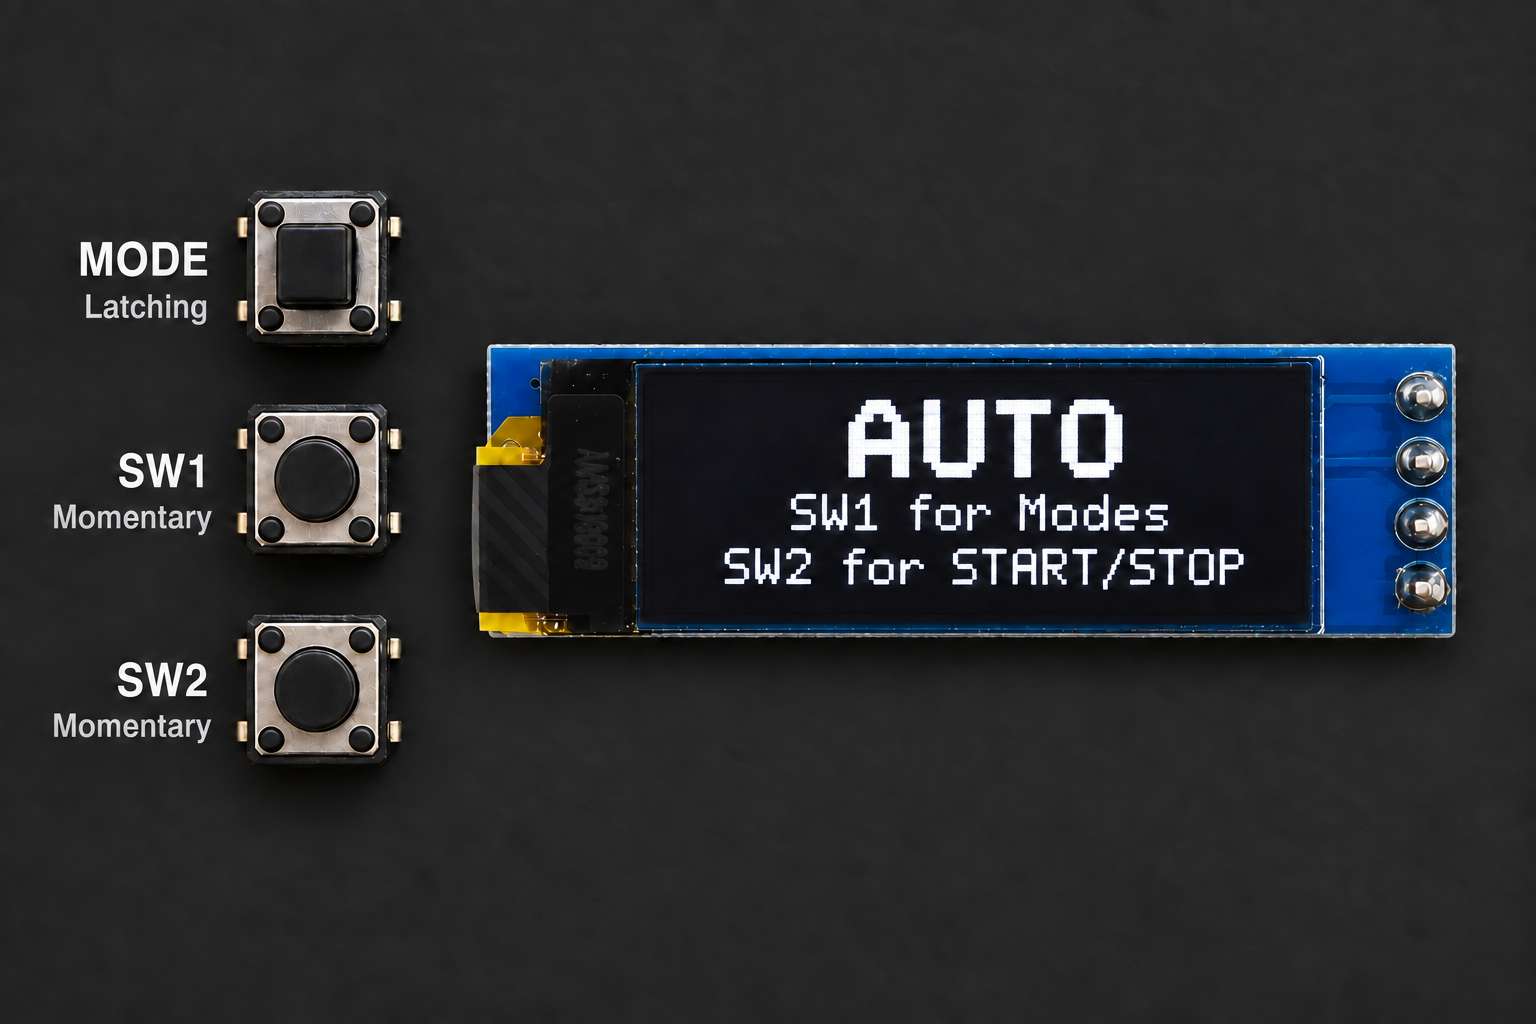
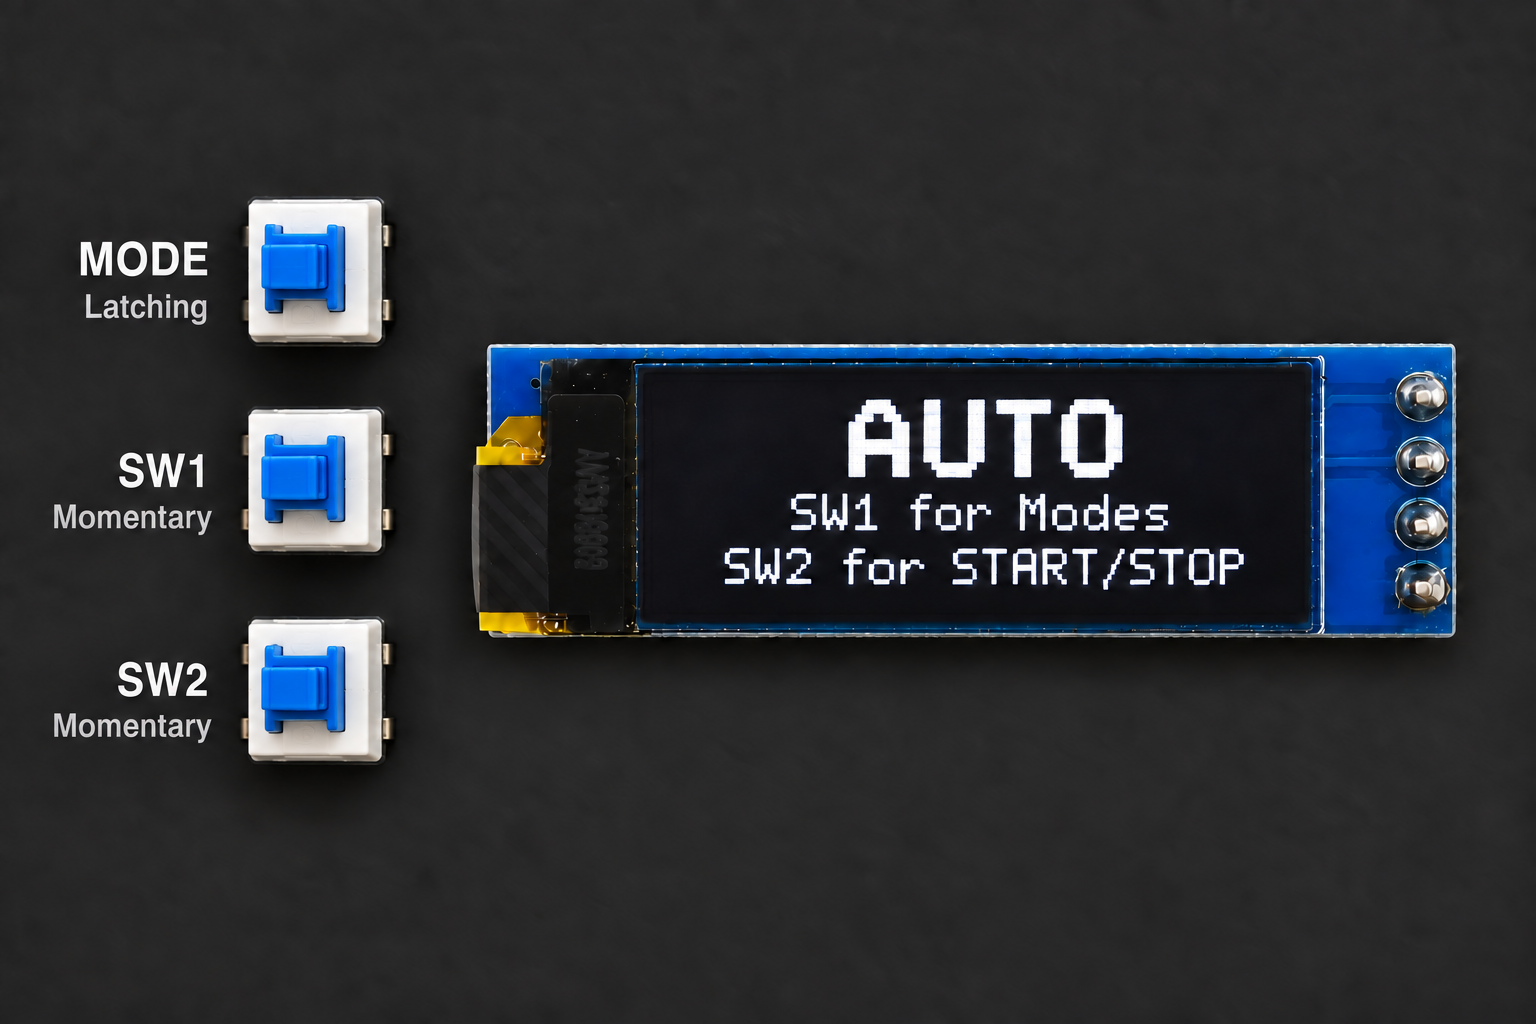
Correct Mini Hunter switch visual

diff --git a/docs/mini-hunter/modes/introduction.md b/docs/mini-hunter/modes/introduction.md
@@ -11,8 +11,8 @@ A **control mode** decides where movement commands come from. An **autonomous mo
 ## Know the three menu controls
 
 <figure class="guide-figure">
-  <img src="../../assets/images/mini-hunter/modes/mh-modes-01-controls-and-auto-menu.png" alt="Illustrated Mini Hunter controls with a latching MODE switch, momentary SW1 and SW2 switches, and an AUTO OLED menu" loading="lazy">
-  <figcaption><strong>MH-MODES-01.</strong> Menu-control reference based on the supplied firmware and OLED hardware. The OLED is installed with its soldered pins on the right.</figcaption>
+  <img src="../../assets/images/mini-hunter/modes/mh-modes-01-controls-and-auto-menu.png" alt="Illustrated Mini Hunter controls with three vertically arranged blue rectangular switches and an AUTO OLED menu" loading="lazy">
+  <figcaption><strong>MH-MODES-01.</strong> Menu-control reference based on the supplied firmware and board artwork. The three blue rectangular switches are arranged vertically at the board's lower-left; they are not generic tactile switches. The OLED is installed with its soldered pins on the right.</figcaption>
 </figure>
 
 | Control | Switch behavior | What it does in the menu |

diff --git a/docs/changelog.md b/docs/changelog.md
@@ -14,6 +14,7 @@ description: A record of changes to the Twentynine Robotics online guides.
 - Added a modes control visual showing the latching MODE switch and momentary SW1/SW2 switches, with the OLED pins oriented to the right.
 - Added a code-derived AUTO menu flow and documented that `NUM_RCRMT = 2` leaves the existing `JS MODE` display case outside the normal selector.
 - Repositioned multi-image setup references directly beneath the instructions and outcomes they illustrate instead of grouping them as galleries after each procedure.
+- Corrected the modes control visual to match the board reference's vertically arranged blue rectangular switches instead of generic tactile switches.
 - Added sanitized installer warning and interrupted-run references plus a clearly labeled reconstructed success screen based on the current batch file.
 - Removed the unnecessary STM32CubeProgrammer file screenshot placeholder and expanded the private `MH-SETUP-01` shot plan into three hardware photos.
 
